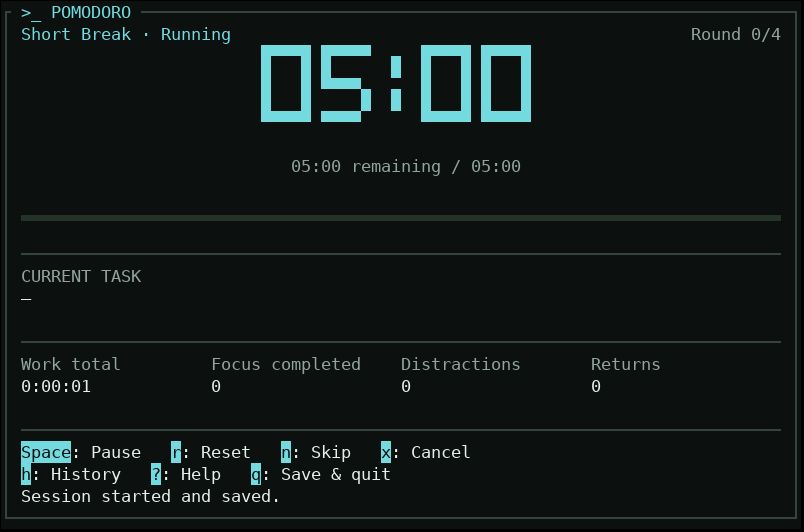
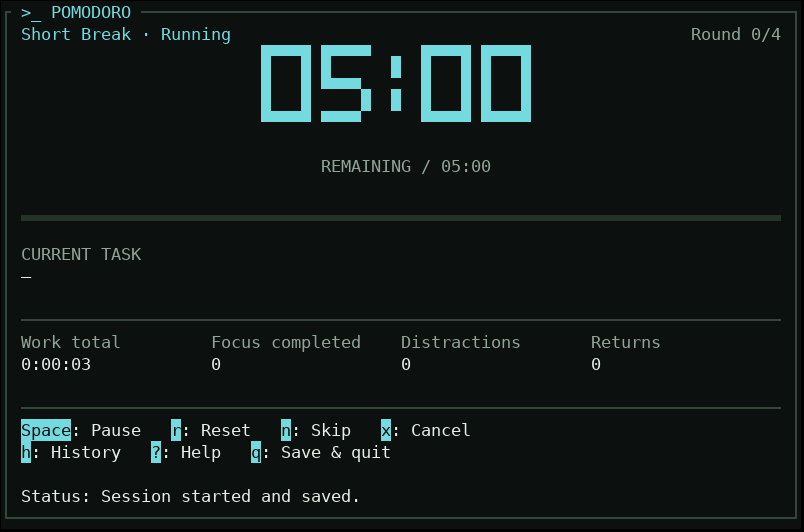
docs: show the revised caption and contextual help screens

Changed region(s): [[0.0, 0.6316, 0.9639, 0.9624], [0.0311, 0.4511, 0.9639, 0.5414], [0.342, 0.3008, 0.653, 0.3308]]

diff --git a/docs/TUI_DESIGN_PLAN.md b/docs/TUI_DESIGN_PLAN.md
@@ -41,10 +41,10 @@
 
 1. `>_ POMODORO`とSession種別・状態。中断時は停止理由、保存待ち時はその事実を表示する。
 2. ラウンド進捗と、ブロック文字で描いた大きな残り時間。
-3. 通常文字の残り時間／設定時間と、細い経過バー。
+3. `REMAINING / 残り時間`の通常文字と、細い経過バー。設定時間はヘルプの`Session duration`に明示する。
 4. Current Task。未入力の作業Sessionは`Not set`、Taskを持たないBreakは`—`とする。
 5. 作業時間、Focus完了数、Distraction数、Return数の4指標。
-6. Session操作、共通操作、操作結果・完了・エラーのメッセージ。
+6. Session操作、共通操作、必要に応じた状態別ヘルプ、操作結果・完了・エラーのメッセージ。
 
 通常文字の残り時間も併記して、ブロック文字だけを読む必要がない構成にする。進捗バーは経過割合を表示し、残り時間と逆の意味にしない。ラウンドは現在の完了数／設定回数を表示し、進行中のFocusを先取りして加算しない。
 
@@ -193,13 +193,15 @@ cargo +1.86.0 test --workspace --locked
 | Task編集 | [日本語Taskと未保存表示](assets/neon-focus-task-edit.png) |
 | 設定 | [選択行と操作キー](assets/neon-focus-settings.png) |
 | 保存回復 | [確認済み状態・未確定候補・再試行キー](assets/neon-focus-save-recovery.png) |
+| 初期画面のヘルプ | [始め方・Task・Quick Start・設定時間](assets/neon-focus-help.png) |
+| 実行中のヘルプ | [Pause・Distraction・Reset・Skip・Cancelの意味](assets/neon-focus-help-running.png) |
 
 端末のセル比率やフォントによって大時計の形は参照画像と異なる。Windows/macOSの実端末による受入は引き続き[対応OSの受入記録](WINDOWS_MACOS_W5_ACCEPTANCE.md)を参照する。
 
 ### 検証結果
 
 - `cargo fmt --all -- --check`、`cargo clippy --workspace --all-targets -- -D warnings`、`cargo test --workspace`、`cargo +1.86.0 test --workspace --locked`が成功。
-- TUI単体テスト97件を含むworkspaceテストで、状態・キー・集計値・色、最大24時間・最大ラウンド設定、長いUnicode Task、繰り返し描画の副作用がないことを確認。
+- TUI単体テスト102件を含むworkspaceテストで、状態・キー・集計値・色、最大24時間・最大ラウンド設定、長いUnicode Task、繰り返し描画の副作用がないことを確認。
 - 疑似端末の判定を現在の画面内容へ揃え、実行ファイルのRGB出力、100×30→24×17→80×24のリサイズ、Distraction／Return、保存回復・再起動を確認。短い設定でのFocus→Break→FocusとTask継承も既存の実行経路テストが成功。
 - 保存回復は24×14でキーが表示され、24×6／9／12では拡大案内が出ることを確認。起動時の復旧同意に必要な警告・保存時刻・表示サイズの条件も既存テストが成功。
 
@@ -210,3 +212,13 @@ cargo +1.86.0 test --workspace --locked
 通常サイズでは空白行と左右の余白を確保する。表示領域が少ない場合は必要な案内・集計の領域に合わせて余白を減らし、保存回復や縮小表示も既存の検証を継続する。80×24の通常画面で時間・remaining・バーの間に空白行があり、Task・集計・キー案内が横線で区切られていることを描画テストで確認した。掲載画像は調整後の実画面へ更新した。
 
 通常文字の字体・サイズはターミナルのフォント設定による。TUIから要素ごとのポイント数を指定することはできないが、大時計のセル数、半ブロック文字、太字、行間や余白はアプリ側で調整できる。
+
+## 9. 残り時間の表記とヘルプ（2026-10-02）
+
+従来の`25:00 remaining / 25:00`は残り時間と設定時間を併記していたが、ラベルの位置と数値の意味が伝わりにくかった。通常表示・縮小表示を`REMAINING / 24:59`のような「ラベル／残り時間」に揃え、大時計と同じ残り時間を表示する。設定時間はヘルプの`Session duration: 25:00`に表示する。極端に狭い端末では残り時間の数値を優先する。
+
+`?`で表示するヘルプには`HELP · Getting started`などの見出しを付け、初期画面では開始・任意Task・Quick Start・自動開始を説明する。実行中はPause／DistractionとReset／Skip／Cancelの意味、中断時はResume／Returnと計上されない時間、Quick Start選択待ちではFinish／Continueを説明する。表示中のキーは`?: Hide help`に変わり、閉じ方も明示する。内容は表示中のsnapshotから選び、ヘルプの開閉・描画では時計観測や保存を発生させない。
+
+通常サイズではキー一覧とヘルプ・補足・操作結果の間へ空白行を入れる。操作結果には`Status:`を付ける。進捗バーとTaskの間の補助線を省き、その行を空白に割り当てる。Taskと集計、集計とキー一覧の横線は維持する。ヘルプ表示中は集計を省略して説明文の領域を確保し、狭い画面では短いヘルプへ切り替えて操作キー・完了メッセージ・保存回復を優先する。
+
+残り時間が24:59、設定時間が25:00のときの表示、初期ヘルプの内容と余白、各Session・中断理由に応じた説明、Quick Startリセット後の開始方法を追加テストで確認した。Quick Start選択待ちの狭い画面、繰り返し描画の副作用、保存回復の既存テストも継続して成功した。初期・実行中・Pauseのヘルプを80×24のVTE端末で撮影し、通常画面・縮小表示・編集・保存回復の掲載画像も更新した。

diff --git a/README.md b/README.md
@@ -85,8 +85,12 @@ Focus and Quick Start use lime, breaks use cyan, interrupted sessions and Quick 
 | `x` | Cancel an active session and return to Focus start |
 | `s` | Open settings while Ready (waiting to start) |
 | `h` | Open the History view during normal operation; `h` or `Esc` returns |
-| `?` | Toggle help |
+| `?` | Show or hide help for the current state |
 | `q` | Save and quit |
+
+`REMAINING / 24:59` shows the remaining time, matching the large clock. Press `?` for a labeled help section: the initial screen explains how to start, set a task, and try Quick Start; running and interrupted sessions explain their available operations. Help also shows the full session duration, such as `Session duration: 25:00`. Press `?` again (`Hide help`) to close it. Opening help does not pause the timer. A blank line separates the keys from help and status messages when space permits.
+
+![Getting started help in an 80×24 VTE terminal](docs/assets/neon-focus-help.png)
 
 At a Quick Start decision, `f` finishes and `c` starts a new, full-length linked Focus session. Time spent choosing is not counted, and the choice is still waiting after an exit and restart. A saved Current Task is carried into Quick Start and its continued Focus. Resetting Quick Start keeps its task; press `t` to edit it before restarting with `Space`. From a Break start screen, press `n` to return to Focus start before choosing Quick Start. During a running Focus or Quick Start, `d` records a distraction and stops work time. `Space` records Return and resumes the remaining work time, including after an exit and restart. While any session is running or interrupted, `x` ends that attempt and returns to Focus start. Credited work time remains in history; cancelling a distraction does not record a Return. A naturally completed Focus starts the next break automatically; a naturally completed break starts the next Focus and carries over the previous Focus's Current Task. The first Focus and sessions scheduled after a skip, cancel, or reset still need a manual start. App closure, observation gaps, and save failures stop timing and require manual resumption.
 
